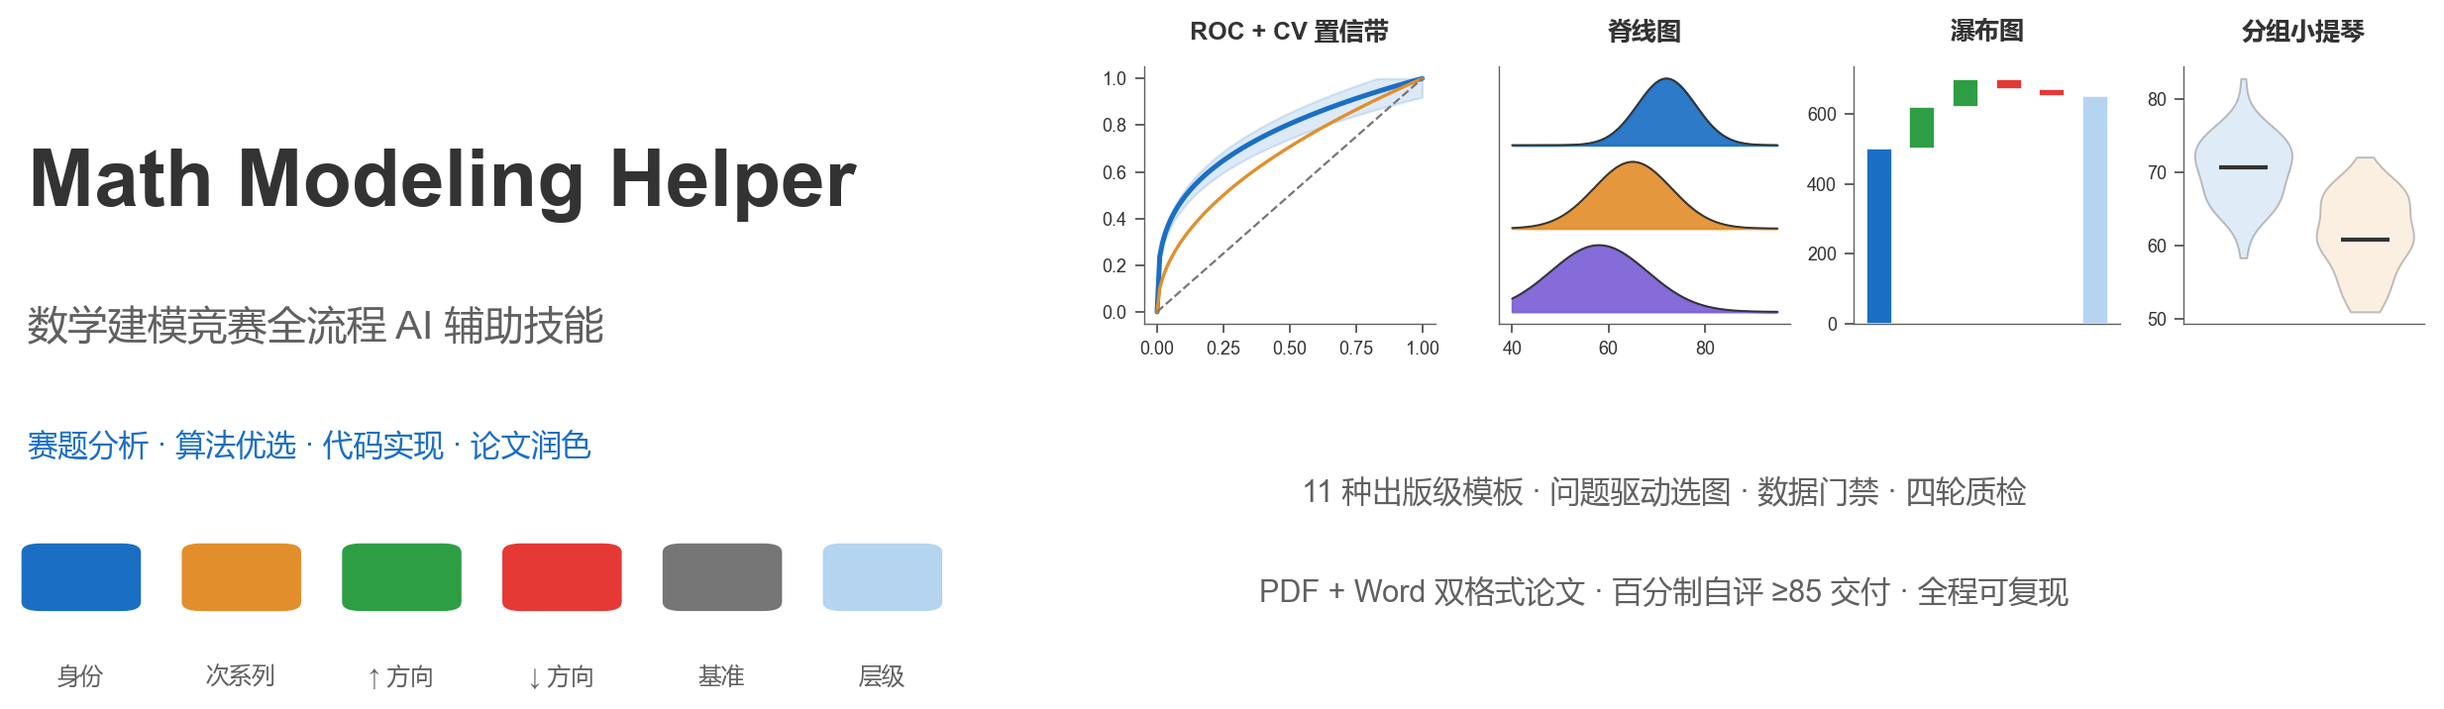
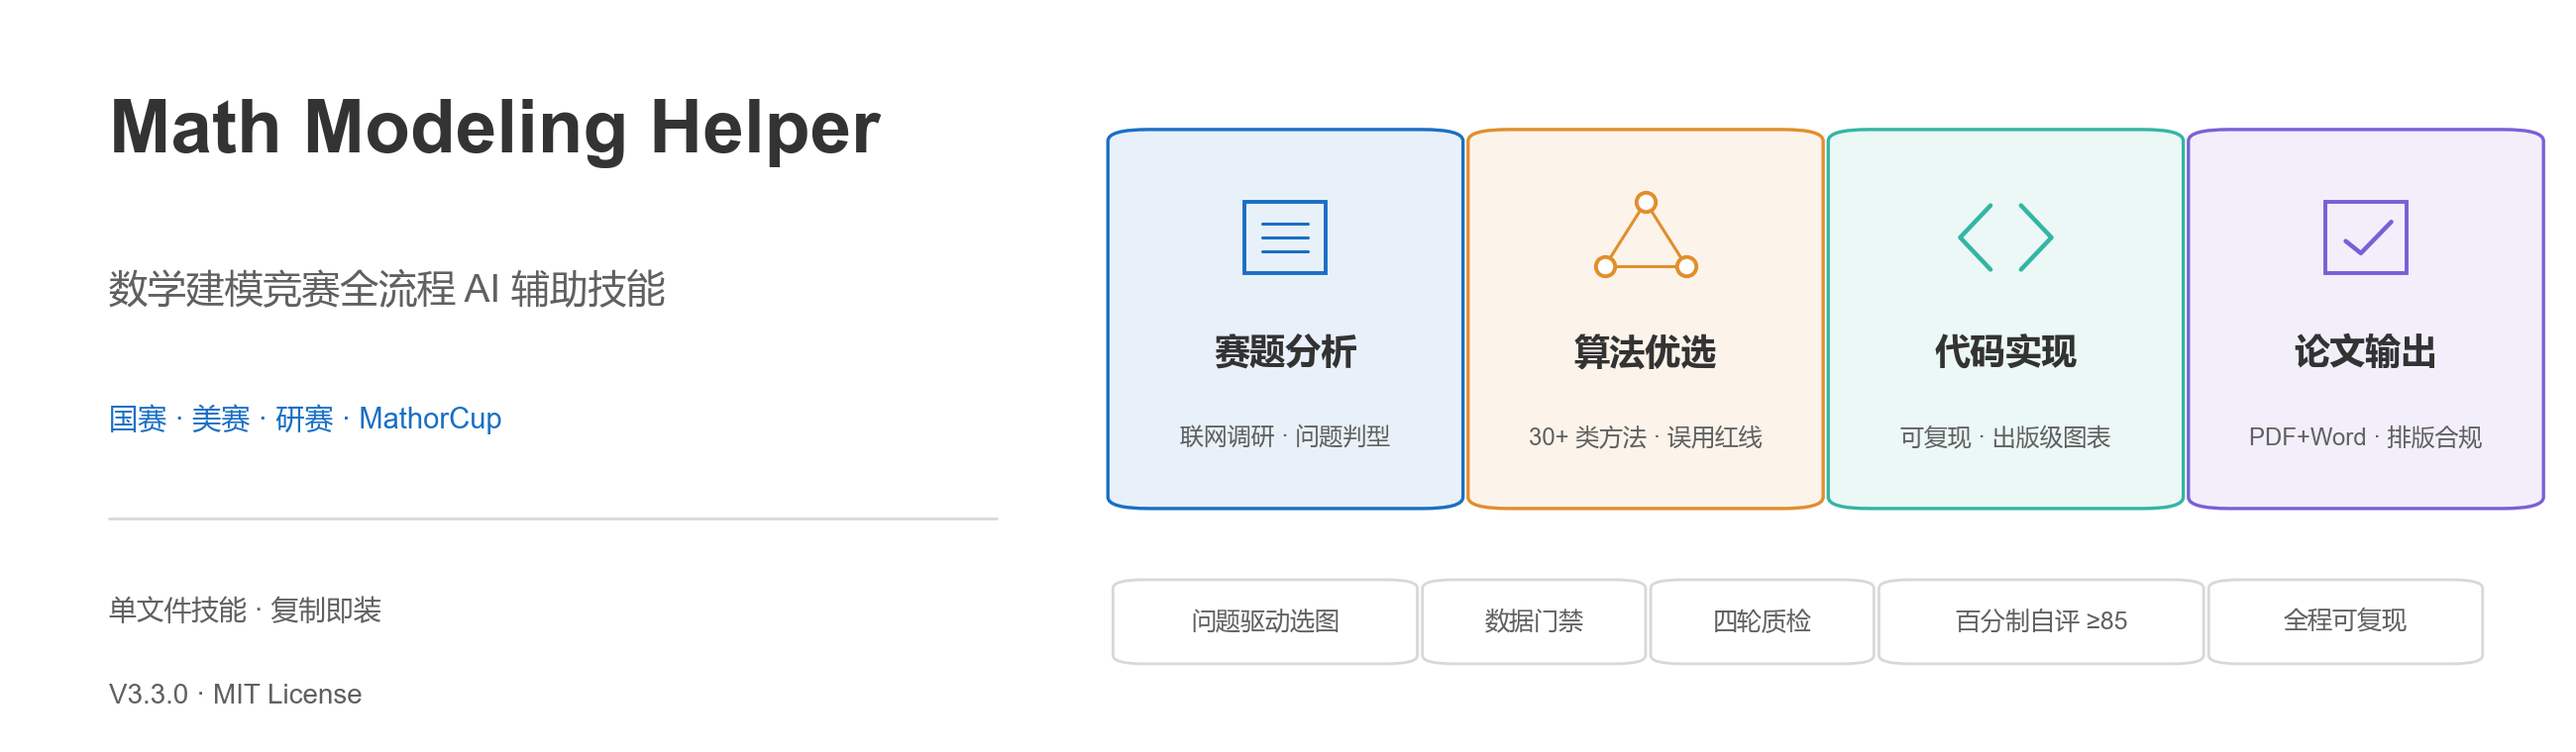
docs: 标题图改为能力主视觉，更新日志默认折叠
- banner 重做：四大能力卡片（赛题分析/算法优选/代码实现/论文输出）+ 质量标签排，绘图降为能力点之一
- 更新日志三个版本条目改为 details 默认折叠，README 首屏更聚焦

diff --git a/README.md b/README.md
@@ -262,7 +262,8 @@ python -c "import importlib.util as u; [print('MISSING:', m) for m in ['numpy','
 
 ## 更新日志
 
-### V3.3.0
+<details>
+<summary><b>V3.3.0</b>（当前版本 · 点击展开）</summary>
 
 **新增（融合 academic-figure-skill，Apache-2.0，方法内化 + 精选模板）**
 
@@ -273,12 +274,15 @@ python -c "import importlib.util as u; [print('MISSING:', m) for m in ['numpy','
 - 自检清单图表类新增 5 条对应检查项；阶段四出图流程挂接"合同 → 门禁 → 质检"三关
 
 - **竞赛向精修（保持精简）**：色卡更新——发散色图中点由浅灰改近白（零点更干净、黑白打印明度对称）、顺序色图改三段蓝（低值段层次更清）；新增 `FIG_HALF` 半栏紧凑尺寸与英文赛标注细则（美赛/全英文场景：Quantity (unit) 轴标签、结论式图题、英文统计标注、长标签防溢出）；反冗余审计升级为**跨小问去重**（同数据同画法全文只保留一次，交付前逐对目视比对）；新增瀑布图模板 `waterfall`（成本/收益累计分解，方向色带 +/− 号冗余编码）
-- **README 视觉升级**：新增 `assets/` 四张配图（标题图含三职责色卡与真实模板缩样、八阶段闭环工作流、出图四关解释图、六宫格模板画廊），全部由技能自带样式模块生成，与出图同一视觉体系
+- **README 视觉升级**：新增 `assets/` 四张配图（标题图以四大能力卡片为主视觉、八阶段闭环工作流、出图四关解释图、六宫格模板画廊），全部由技能自带样式模块生成，与出图同一视觉体系
 - **重复模板对比择优**：与上游仓库十类重叠图型逐一对比——雷达/热图/分组柱状/趋势线保留本 skill 版（上游版存在 p 值硬编码、柱位重叠、LaTeX 依赖、无中文支持等问题）；桑基上游脚本缺自制依赖包不可运行，不吸收；ROC 增强为支持 CV 折间均值 ±1σ 置信带并自动补曲线端点（上游三版均无此能力）；新增分组小提琴 `violin_groups`（吸收上游 Mann-Whitney + Bonferroni 校正与括号防重叠抬升算法，散点种子统一）
 
 > **边界说明**：本次采纳上游的选图流程与部分图型绘制方法，全部按竞赛场景择优内化；期刊栏宽与投稿专用色板未引入，英文标注细则与色卡精修服务于美赛等英文赛事，竞赛排版与 Nature 三职责配色仍是唯一出处。
 
-### V3.2.0
+</details>
+
+<details>
+<summary><b>V3.2.0</b></summary>
 
 **新增**
 
@@ -305,9 +309,14 @@ python -c "import importlib.util as u; [print('MISSING:', m) for m in ['numpy','
 
 > **行为变化**：Word 字体与表格对齐由"违反自身规范"改为合规、随机种子统一、新增阶段七终检门槛——均为补齐与加严，非功能删减。TimesFM 3.0 权重限非商业用途（竞赛属此），转商用须换 2.5 权重或走官方授权服务。
 
-### V3.1.0
+</details>
+
+<details>
+<summary><b>V3.1.0</b></summary>
 
 首个公开版本：七阶段全流程、双格式论文交付、Nature 三色可视化规范、国赛获奖级排版与百分制五维评分体系。
+
+</details>
 
 ---
 
